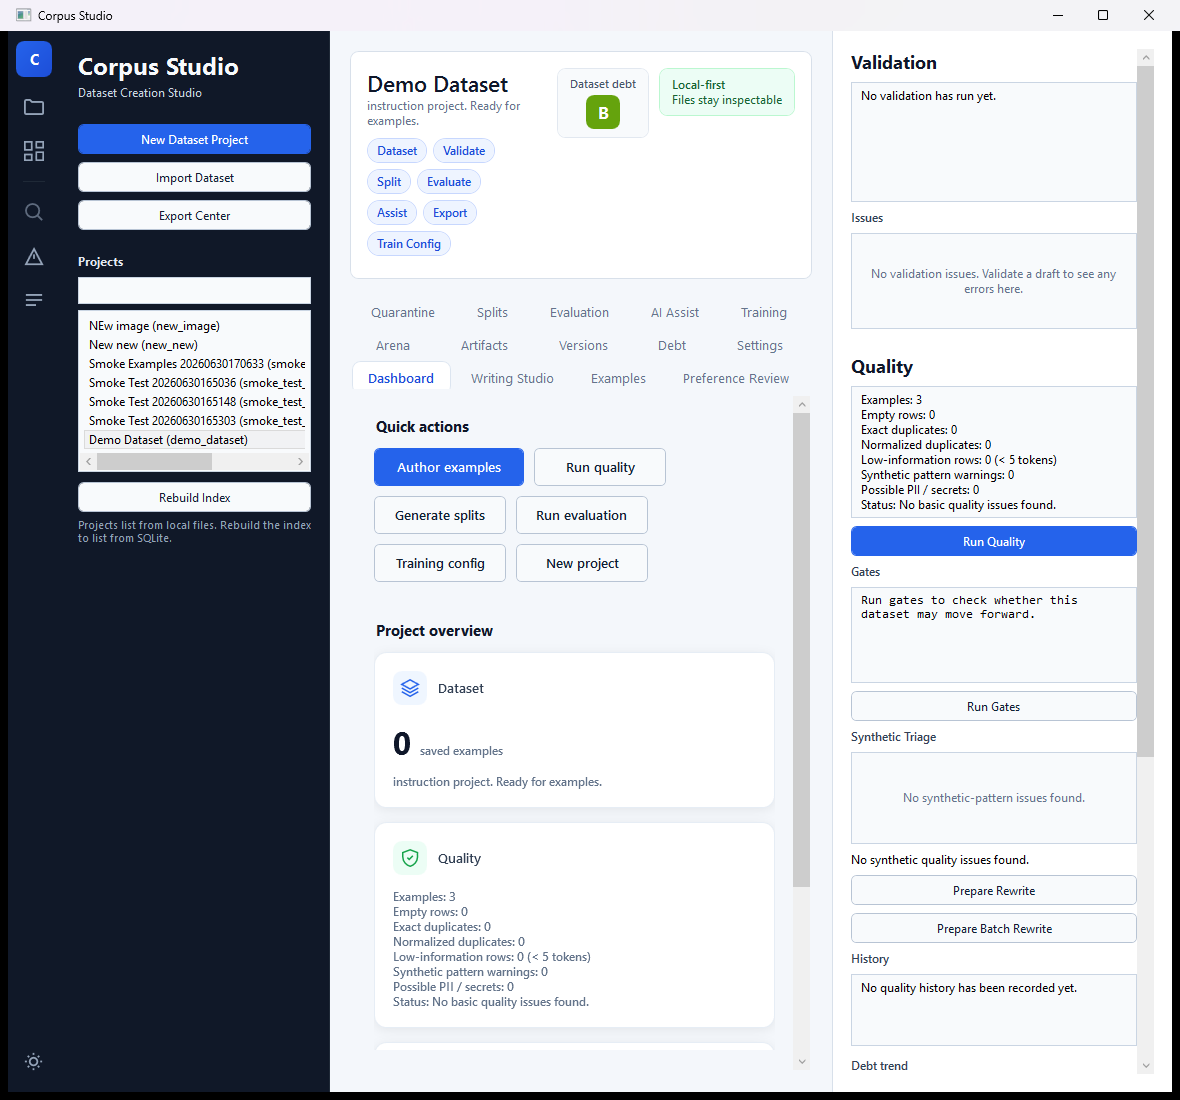
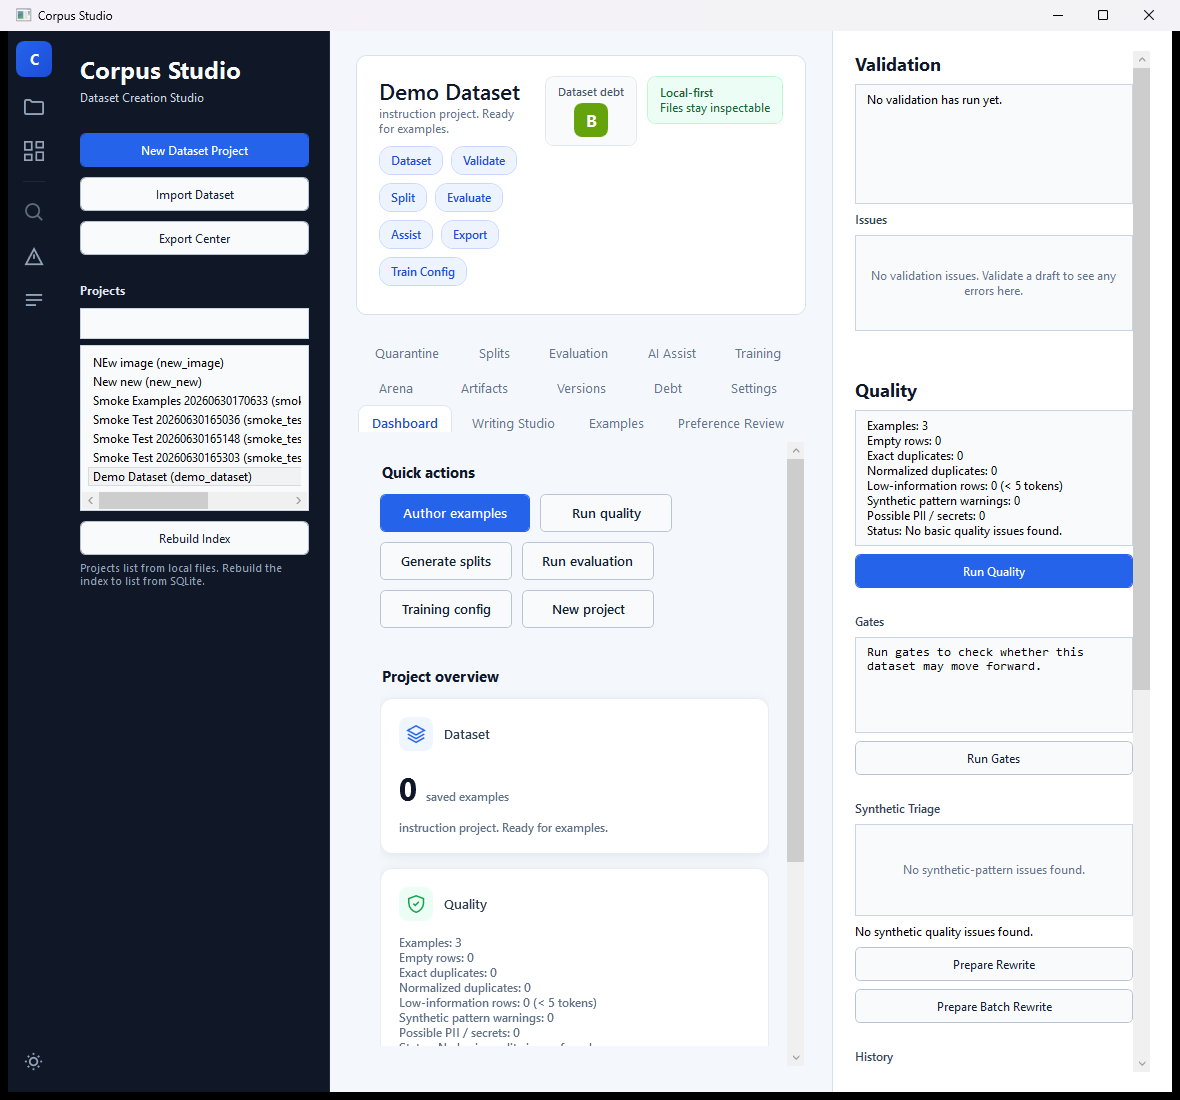
Add breathing room across the Studio — decompress the whole surface (v1.2.11)
Follow-up to the dashboard redesign: the surrounding chrome still felt packed. This
is a global whitespace pass (pure XAML/styling, no logic changes).

- Base controls: buttons MinHeight 30->34 (padding 12,7) and the primary button
  30->34 (16,7); text boxes 9,7; combo boxes 34/8,6; list boxes padding 6 — so every
  control across all 14 tabs sits with more air instead of cramped.
- Panels: center content padding 20->26,24; left sidebar 20,22 with roomier button
  gaps (8->10) and section gaps (24->28); right panel 18->22,20.
- Header card: padding 16->22,20, radius 8->10, roomier stage pills (11,6 / 8,8 gaps).
- Tab strip: more row spacing (bottom margin 5->8, gap 4->6) so the 3 rows separate.
- Right panel: top margins on the Quality / Gates / Synthetic Triage / History / Debt
  trend / Export section headers so the stacked sections read as distinct blocks
  rather than one dense wall of text.
- Section headers get a touch more bottom margin (6->9).

Pure presentation — bindings, handlers, and automation ids are unchanged.

Verified: dotnet build clean (0 warnings); dotnet test 333 passed / 0 failed;
dashboard captured live via PrintWindow (docs/screenshots/studio-dashboard.png
refreshed to the roomier layout).

diff --git a/apps/desktop/CorpusStudio.Desktop/Views/MainWindow.xaml b/apps/desktop/CorpusStudio.Desktop/Views/MainWindow.xaml
@@ -25,8 +25,8 @@
         <SolidColorBrush x:Key="ControlBackgroundBrush" Color="#F8FAFC" />
 
         <Style TargetType="{x:Type Button}">
-            <Setter Property="MinHeight" Value="30" />
-            <Setter Property="Padding" Value="10,5" />
+            <Setter Property="MinHeight" Value="34" />
+            <Setter Property="Padding" Value="12,7" />
             <Setter Property="Cursor" Value="Hand" />
             <Setter Property="Foreground" Value="#102033" />
             <Setter Property="Background" Value="#F8FAFC" />
@@ -68,13 +68,13 @@
             <Setter Property="Background" Value="{StaticResource ControlBackgroundBrush}" />
             <Setter Property="BorderBrush" Value="#CAD5E3" />
             <Setter Property="BorderThickness" Value="1" />
-            <Setter Property="Padding" Value="7,5" />
+            <Setter Property="Padding" Value="9,7" />
             <Setter Property="SelectionBrush" Value="#BBD3FF" />
         </Style>
 
         <Style TargetType="{x:Type ComboBox}">
-            <Setter Property="MinHeight" Value="30" />
-            <Setter Property="Padding" Value="6,4" />
+            <Setter Property="MinHeight" Value="34" />
+            <Setter Property="Padding" Value="8,6" />
             <Setter Property="Background" Value="{StaticResource ControlBackgroundBrush}" />
             <Setter Property="BorderBrush" Value="#CAD5E3" />
         </Style>
@@ -83,7 +83,7 @@
             <Setter Property="Background" Value="{StaticResource ControlBackgroundBrush}" />
             <Setter Property="BorderBrush" Value="#CAD5E3" />
             <Setter Property="BorderThickness" Value="1" />
-            <Setter Property="Padding" Value="4" />
+            <Setter Property="Padding" Value="6" />
         </Style>
 
         <Style TargetType="{x:Type TabControl}">
@@ -92,8 +92,8 @@
         </Style>
 
         <Style TargetType="{x:Type TabItem}">
-            <Setter Property="Padding" Value="12,7" />
-            <Setter Property="Margin" Value="0,0,4,5" />
+            <Setter Property="Padding" Value="13,8" />
+            <Setter Property="Margin" Value="0,0,6,8" />
             <Setter Property="Foreground" Value="#64748B" />
             <Setter Property="FontSize" Value="12.5" />
             <Setter Property="Template">
@@ -134,15 +134,15 @@
             <Setter Property="BorderBrush" Value="#C7D7FE" />
             <Setter Property="BorderThickness" Value="1" />
             <Setter Property="CornerRadius" Value="12" />
-            <Setter Property="Padding" Value="9,4" />
-            <Setter Property="Margin" Value="0,0,6,6" />
+            <Setter Property="Padding" Value="11,6" />
+            <Setter Property="Margin" Value="0,0,8,8" />
         </Style>
 
         <SolidColorBrush x:Key="HeadingTextBrush" Color="#0F172A" />
 
         <Style x:Key="PrimaryButtonStyle" TargetType="{x:Type Button}">
-            <Setter Property="MinHeight" Value="30" />
-            <Setter Property="Padding" Value="14,5" />
+            <Setter Property="MinHeight" Value="34" />
+            <Setter Property="Padding" Value="16,7" />
             <Setter Property="Cursor" Value="Hand" />
             <Setter Property="Foreground" Value="#FFFFFF" />
             <Setter Property="FontWeight" Value="SemiBold" />
@@ -185,7 +185,7 @@
             <Setter Property="FontSize" Value="13" />
             <Setter Property="FontWeight" Value="SemiBold" />
             <Setter Property="Foreground" Value="{StaticResource HeadingTextBrush}" />
-            <Setter Property="Margin" Value="0,0,0,6" />
+            <Setter Property="Margin" Value="0,0,0,9" />
         </Style>
 
         <Style x:Key="CaptionTextStyle" TargetType="{x:Type TextBlock}">
@@ -657,34 +657,34 @@
                 Background="{StaticResource SidebarBrush}"
                 BorderBrush="#1F2937"
                 BorderThickness="0,0,1,0"
-                Padding="18">
+                Padding="20,22">
             <StackPanel>
                 <TextBlock Text="Corpus Studio"
                            FontSize="24"
                            FontWeight="Bold"
                            Foreground="#F8FAFC" />
                 <TextBlock Text="Dataset Creation Studio"
-                           Margin="0,4,0,24"
+                           Margin="0,5,0,28"
                            Foreground="#CBD5E1" />
 
                 <Button Style="{StaticResource PrimaryButtonStyle}"
                         AutomationProperties.AutomationId="NewDatasetProjectButton"
                         Content="New Dataset Project"
-                        Margin="0,0,0,8"
+                        Margin="0,0,0,10"
                         Click="NewDatasetProjectButton_Click" />
                 <Button AutomationProperties.AutomationId="ImportDatasetButton"
                         Content="Import Dataset"
-                        Margin="0,0,0,8"
+                        Margin="0,0,0,10"
                         Click="ImportDatasetButton_Click" />
                 <Button AutomationProperties.AutomationId="ExportCenterButton"
                         Content="Export Center"
-                        Margin="0,0,0,24"
+                        Margin="0,0,0,28"
                         Click="ExportCenterButton_Click" />
 
                 <TextBlock Text="Projects"
                            FontWeight="Bold"
                            Foreground="#E2E8F0"
-                           Margin="0,0,0,8" />
+                           Margin="0,0,0,10" />
                 <TextBox AutomationProperties.AutomationId="ProjectSearchTextBox"
                          Text="{Binding ProjectSearch, Mode=TwoWay, UpdateSourceTrigger=PropertyChanged}"
                          ToolTip="Filter projects by name, id, or schema"
@@ -708,7 +708,7 @@
         </Border>
 
         <Border Grid.Column="1"
-                Padding="20"
+                Padding="26,24"
                 Background="{StaticResource AppBackgroundBrush}">
             <Grid>
                 <Grid.RowDefinitions>
@@ -721,9 +721,9 @@
                         Background="{StaticResource PanelBrush}"
                         BorderBrush="{StaticResource PanelBorderBrush}"
                         BorderThickness="1"
-                        CornerRadius="8"
-                        Padding="16"
-                        Margin="0,0,0,14">
+                        CornerRadius="10"
+                        Padding="22,20"
+                        Margin="0,0,0,18">
                     <Grid>
                         <Grid.ColumnDefinitions>
                             <ColumnDefinition Width="*" />
@@ -2567,9 +2567,12 @@
                 Background="{StaticResource PanelBrush}"
                 BorderBrush="{StaticResource PanelBorderBrush}"
                 BorderThickness="1,0,0,0"
-                Padding="18">
+                Padding="22,20">
             <ScrollViewer VerticalScrollBarVisibility="Auto"
                           HorizontalScrollBarVisibility="Disabled">
+            <!-- Right panel: extra vertical rhythm so the stacked sections (Validation /
+                 Quality / Gates / Synthetic / History / Debt trend / Export) don't read as a
+                 single dense wall. Section headers get top margin via StackPanel spacing below. -->
             <StackPanel>
                 <TextBlock Text="Validation"
                            FontSize="18"
@@ -2601,7 +2604,8 @@
                 <TextBlock Text="Quality"
                            FontSize="18"
                            FontWeight="Bold"
-                           Foreground="#0F172A" />
+                           Foreground="#0F172A"
+                           Margin="0,22,0,0" />
                 <TextBox AutomationProperties.AutomationId="QualitySummaryTextBox"
                          Text="{Binding QualitySummary, Mode=OneWay}"
                          Margin="0,8,0,8"
@@ -2616,7 +2620,8 @@
                         Click="RunQualityButton_Click" />
                 <TextBlock Text="Gates"
                            FontWeight="SemiBold"
-                           Foreground="#334155" />
+                           Foreground="#334155"
+                           Margin="0,18,0,0" />
                 <TextBox AutomationProperties.AutomationId="GateSummaryTextBox"
                          Text="{Binding GateSummary, Mode=OneWay}"
                          Margin="0,8,0,8"
@@ -2633,7 +2638,8 @@
                         Click="RunGatesButton_Click" />
                 <TextBlock Text="Synthetic Triage"
                            FontWeight="SemiBold"
-                           Foreground="#334155" />
+                           Foreground="#334155"
+                           Margin="0,18,0,0" />
                 <Grid Margin="0,8,0,8">
                     <ListBox x:Name="SyntheticPatternIssuesListBox"
                              AutomationProperties.AutomationId="SyntheticPatternIssuesListBox"
@@ -2659,7 +2665,8 @@
                         Click="PrepareSyntheticBatchRewriteButton_Click" />
                 <TextBlock Text="History"
                            FontWeight="SemiBold"
-                           Foreground="#334155" />
+                           Foreground="#334155"
+                           Margin="0,18,0,0" />
                 <TextBox AutomationProperties.AutomationId="QualityHistoryTextBox"
                          Text="{Binding QualityHistorySummary, Mode=OneWay}"
                          Margin="0,8,0,12"
@@ -2669,7 +2676,7 @@
                          VerticalScrollBarVisibility="Auto" />
 
                 <!-- Debt trend mini-chart (v1.2.9): quality issue rate per run over time. -->
-                <StackPanel Orientation="Horizontal" Margin="0,0,0,4">
+                <StackPanel Orientation="Horizontal" Margin="0,18,0,4">
                     <TextBlock Text="Debt trend" FontWeight="SemiBold" Foreground="#334155"
                                VerticalAlignment="Center" />
                     <TextBlock Text="{Binding DebtTrendDirection}" FontWeight="SemiBold" FontSize="12"
@@ -2706,7 +2713,8 @@
                 <TextBlock Text="Export"
                            FontSize="18"
                            FontWeight="Bold"
-                           Foreground="#0F172A" />
+                           Foreground="#0F172A"
+                           Margin="0,24,0,0" />
                 <Button AutomationProperties.AutomationId="ValidateButton"
                         Content="_Validate"
                         Margin="0,8,0,8"